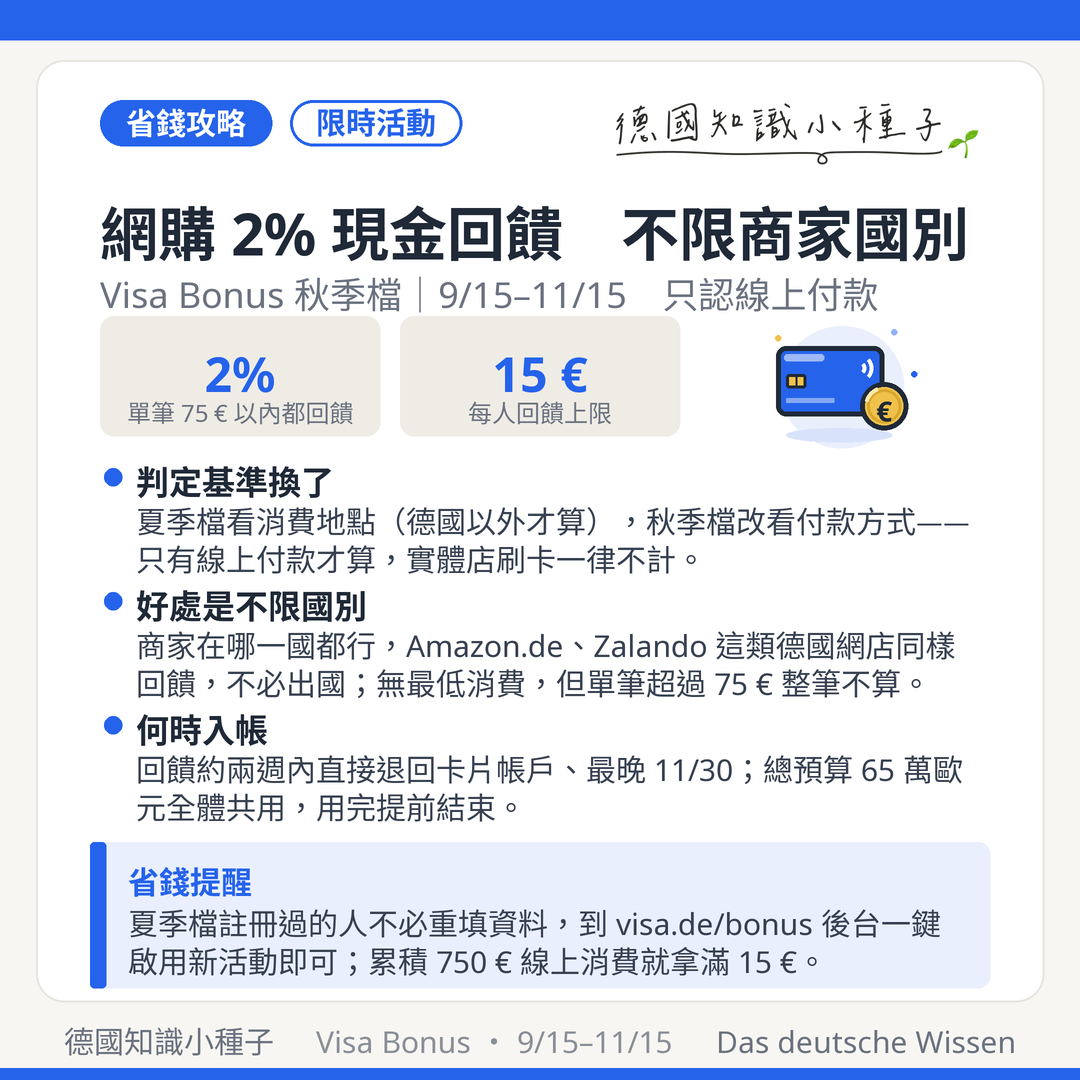
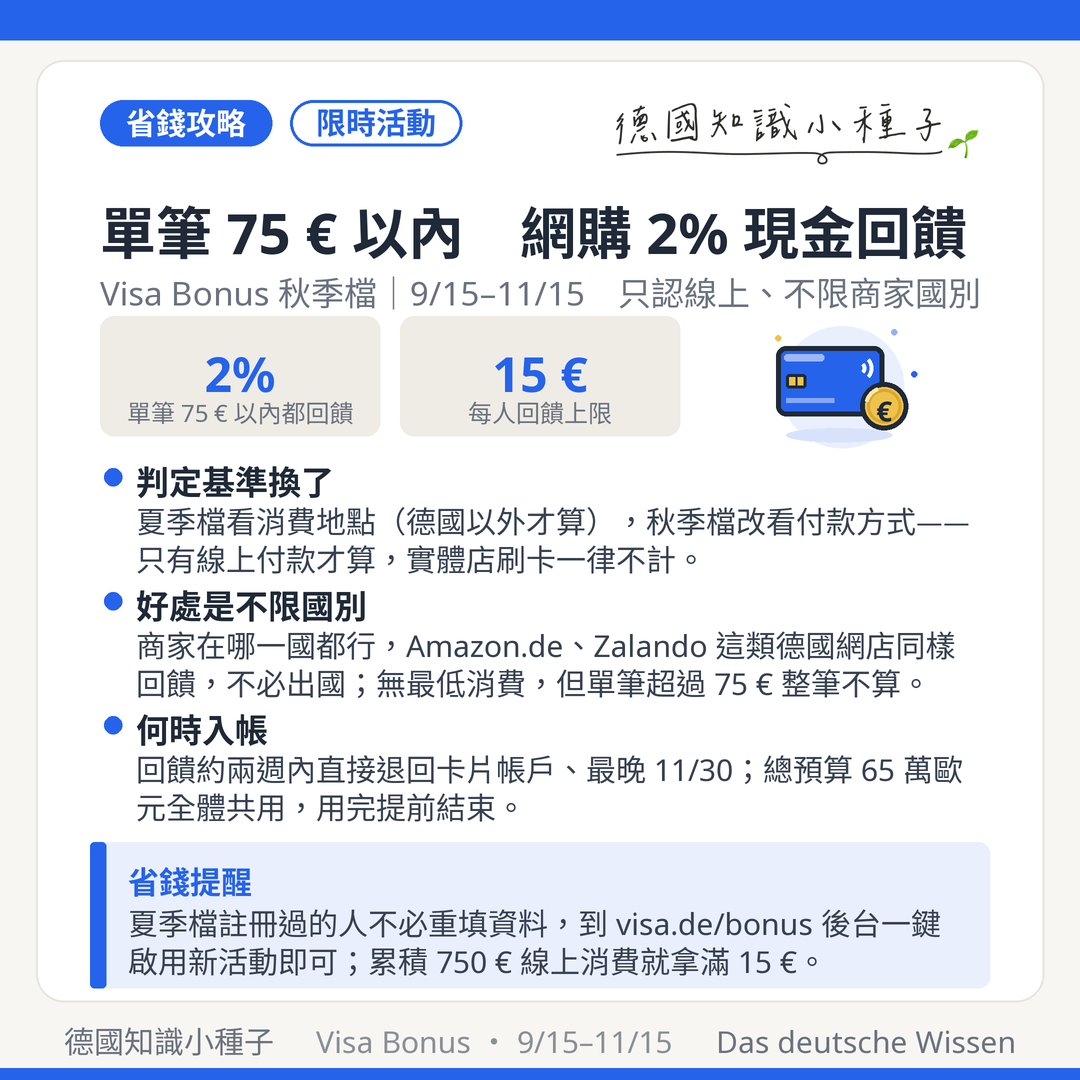
把「單筆 75 € 以內」拉到每個載體的第一眼位置
75 € 是這檔活動最關鍵的操作數字（不知道就整筆白刷），原本要到圖卡的數字格、
貼文的第三條才看得到，優先級放得太低。

- 圖卡1 主標改為「單筆 75 € 以內　網購 2% 現金回饋」，
  「只認線上、不限商家國別」移到副標
- FB／IG 標題與導言都在開頭點出，並把界線寫精確：
  75.00 € 以內回饋、75.01 € 整筆掛零（不是只扣超過的部分）
- FB 2044 字元／IG 1014 字元，均在上限內

Claude-Session: https://claude.ai/code/session_01VLQA5RrcurHHfHrfLc5Pcq

Changed region(s): [[0.0917, 0.1833, 0.9167, 0.3056]]

diff --git a/scripts/cardgen/make_visa_herbst_cards.py b/scripts/cardgen/make_visa_herbst_cards.py
@@ -21,8 +21,8 @@ DATE_RANGE = '9/15–11/15'  # footer 空間有限，勿放長日期（會撞到
 CARDS = [
  dict(
   theme='#2563EB', badges=[('省錢攻略', True), ('限時活動', False)], illu='bankcard',
-  title='網購 2% 現金回饋　不限商家國別',
-  subtitle='Visa Bonus 秋季檔｜9/15–11/15　只認線上付款',
+  title='單筆 75 € 以內　網購 2% 現金回饋',
+  subtitle='Visa Bonus 秋季檔｜9/15–11/15　只認線上、不限商家國別',
   stats=[('2%', '單筆 75 € 以內都回饋'),
          ('15 €', '每人回饋上限')],
   bullets=[
